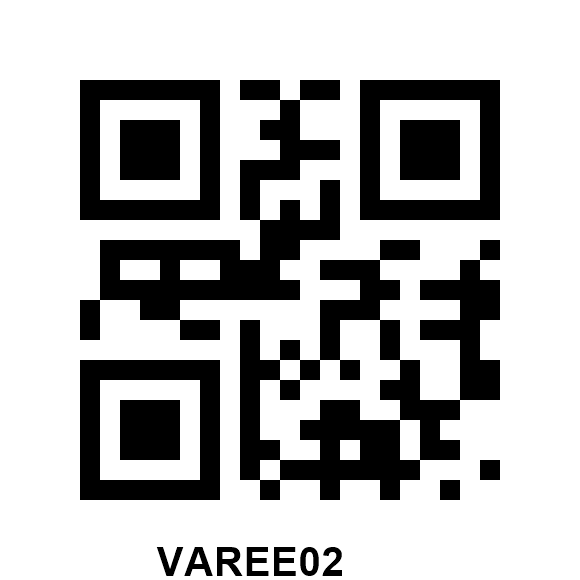
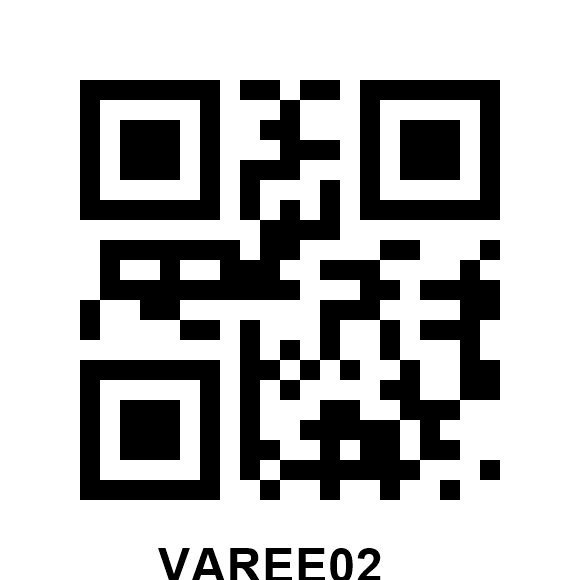
Fang 0435 19072024

Changed region(s): [[0.2793, 0.931, 0.6828, 1.0]]

diff --git a/Controllers/WorkingController.cs b/Controllers/WorkingController.cs
@@ -1062,6 +1062,8 @@ namespace Plims.Controllers
                 Sheet.Cells[string.Format("N{0}", row)].Value = "";
                 Sheet.Cells[string.Format("O{0}", row)].Value = "";
 
+
+
                 //    row++;
                 //}
                 Sheet.Cells["A:AZ"].AutoFitColumns();
@@ -1865,8 +1867,6 @@ namespace Plims.Controllers
                                                       ((x.ClockOut != null || x.ClockOut != "") && x.Remark == "Adjust" && x.TransactionDate.Date == currentDate))).FirstOrDefault();
 
 
-
-
                             if (objEmp != null)
                             {
                                 var objPLPS = db.View_PLPS
@@ -2032,6 +2032,7 @@ namespace Plims.Controllers
                                             x.ProductID.Equals(productId) &&
                                             x.SectionID.Equals(objEmp.SectionID.ToString()))
                                 .FirstOrDefault();
+
 
                                 if (objPLPS != null)
                                 {
@@ -4802,7 +4803,7 @@ namespace Plims.Controllers
             {
                 return RedirectToAction("Login", "Home");
             }
-            var mymodel = new ViewModelProductionAdjust
+            var mymodel = new ViewModelAll
             {
                 tbLine = db.TbLine.Where(x => x.PlantID == PlantID).ToList(),
                 tbSection = db.TbSection.Where(x => x.PlantID == PlantID).ToList(),
@@ -4871,7 +4872,7 @@ namespace Plims.Controllers
             {
                 return RedirectToAction("Login", "Home");
             }
-            var mymodel = new ViewModelProductionAdjust
+            var mymodel = new ViewModelAll
             {
                 tbLine = db.TbLine.Where(x => x.PlantID == PlantID).ToList(),
                 tbSection = db.TbSection.Where(x => x.PlantID == PlantID).ToList(),
@@ -4902,7 +4903,7 @@ namespace Plims.Controllers
                 return RedirectToAction("Login", "Home");
             }
 
-            var mymodel = new ViewModelProductionAdjust
+            var mymodel = new ViewModelAll
             {
                 tbLine = db.TbLine.Where(x => x.PlantID == PlantID).ToList(),
                 tbSection = db.TbSection.Where(x => x.PlantID == PlantID).ToList(),
@@ -5066,7 +5067,7 @@ namespace Plims.Controllers
                 return RedirectToAction("Login", "Home");
             }
 
-            var mymodel = new ViewModelProductionAdjust
+            var mymodel = new ViewModelAll
             {
                 tbLine = db.TbLine.Where(x => x.PlantID == PlantID).ToList(),
                 tbSection = db.TbSection.Where(x => x.PlantID == PlantID).ToList(),
@@ -5127,7 +5128,7 @@ namespace Plims.Controllers
                 return RedirectToAction("Login", "Home");
             }
 
-            var mymodel = new ViewModelProductionAdjust
+            var mymodel = new ViewModelAll
             {
                 tbLine = db.TbLine.Where(x => x.PlantID == PlantID).ToList(),
                 tbSection = db.TbSection.Where(x => x.PlantID == PlantID).ToList(),
@@ -5191,7 +5192,7 @@ namespace Plims.Controllers
             {
                 return RedirectToAction("Login", "Home");
             }
-            var mymodel = new ViewModelProductionAdjust
+            var mymodel = new ViewModelAll
             {
                 tbLine = db.TbLine.Where(x => x.PlantID == PlantID).ToList(),
                 tbSection = db.TbSection.Where(x => x.PlantID == PlantID).ToList(),
@@ -5261,7 +5262,7 @@ namespace Plims.Controllers
             {
                 return RedirectToAction("Login", "Home");
             }
-            var mymodel = new ViewModelProductionAdjust
+            var mymodel = new ViewModelAll
             {
                 tbLine = db.TbLine.Where(x => x.PlantID == PlantID).ToList(),
                 tbSection = db.TbSection.Where(x => x.PlantID == PlantID).ToList(),
@@ -5292,7 +5293,7 @@ namespace Plims.Controllers
                 return RedirectToAction("Login", "Home");
             }
 
-            var mymodel = new ViewModelProductionAdjust
+            var mymodel = new ViewModelAll
             {
                 tbLine = db.TbLine.Where(x => x.PlantID == PlantID).ToList(),
                 tbSection = db.TbSection.Where(x => x.PlantID == PlantID).ToList(),

diff --git a/Controllers/MasterController.cs b/Controllers/MasterController.cs
@@ -6273,7 +6273,7 @@ namespace Plims.Controllers
             using (Graphics g = Graphics.FromImage(qrBitmap))
             {
                 g.TextRenderingHint = TextRenderingHint.AntiAlias; // For smooth text
-                Font font = new Font("Arial", 30, FontStyle.Bold);
+                Font font = new Font("Arial", 36, FontStyle.Bold);
                 SolidBrush brush = new SolidBrush(System.Drawing.Color.Black);
 
                 // Calculate where to draw the text
@@ -6423,7 +6423,7 @@ namespace Plims.Controllers
                 using (Graphics g = Graphics.FromImage(qrBitmap))
                 {
                     g.TextRenderingHint = TextRenderingHint.AntiAlias; // For smooth text
-                    Font font = new Font("Arial", 30, FontStyle.Bold);
+                    Font font = new Font("Arial", 36, FontStyle.Bold);
                     SolidBrush brush = new SolidBrush(System.Drawing.Color.Black);
 
                     // Calculate where to draw the text
@@ -6524,7 +6524,7 @@ namespace Plims.Controllers
                 using (Graphics g = Graphics.FromImage(qrBitmap))
                 {
                     g.TextRenderingHint = TextRenderingHint.AntiAlias; // For smooth text
-                    Font font = new Font("Arial", 30, FontStyle.Bold);
+                    Font font = new Font("Arial", 36, FontStyle.Bold);
                     SolidBrush brush = new SolidBrush(System.Drawing.Color.Black);
 
                     // Calculate where to draw the text
@@ -8432,12 +8432,12 @@ namespace Plims.Controllers
             using (Graphics g = Graphics.FromImage(qrBitmap))
             {
                 g.TextRenderingHint = TextRenderingHint.AntiAlias; // For smooth text
-                Font font = new Font("Arial", 30, FontStyle.Bold);
+                Font font = new Font("Arial", 36, FontStyle.Bold);
                 SolidBrush brush = new SolidBrush(System.Drawing.Color.Black);
 
                 // Calculate where to draw the text
                 float x = 150; // Left margin
-                float y = qrBitmap.Height - 40; // Position at the bottom
+                float y = qrBitmap.Height - 30; // Position at the bottom
          
                 g.DrawString(labelText, font, brush, new System.Drawing.PointF(x, y)); // Draw the label
             }

diff --git a/Controllers/EmployeeController.cs b/Controllers/EmployeeController.cs
@@ -981,7 +981,12 @@ namespace Plims.Controllers
                 if (obj.ClockOut == null || obj.ClockOut == "")
                 {
                     TempData["AlertMessage"] = "Please fill Time/Date Clockin";
-                    return RedirectToAction("EmployeeClockIn", "Employee");
+                    return RedirectToAction("EmployeeClockOut", "Employee");
+                }
+                if (obj.WorkingStatus == null )
+                {
+                    TempData["AlertMessage"] = "Please fill Working Status";
+                    return RedirectToAction("EmployeeClockOut", "Employee");
                 }
 
                 // Create Function
